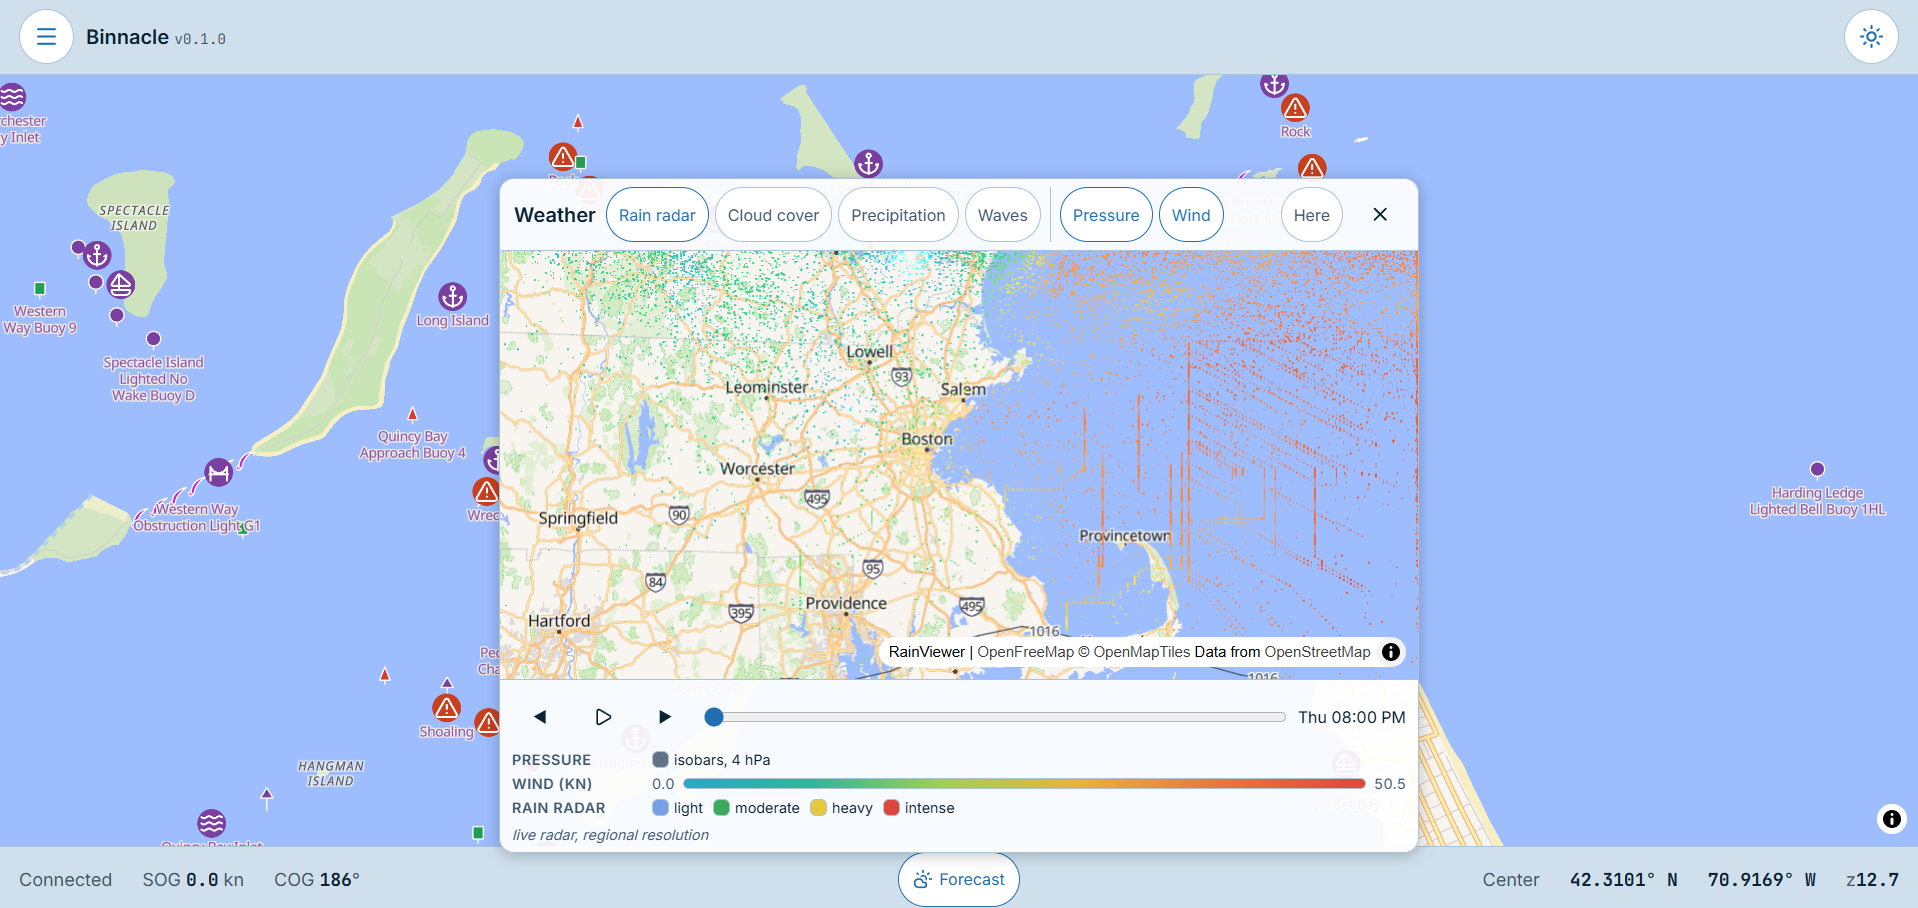
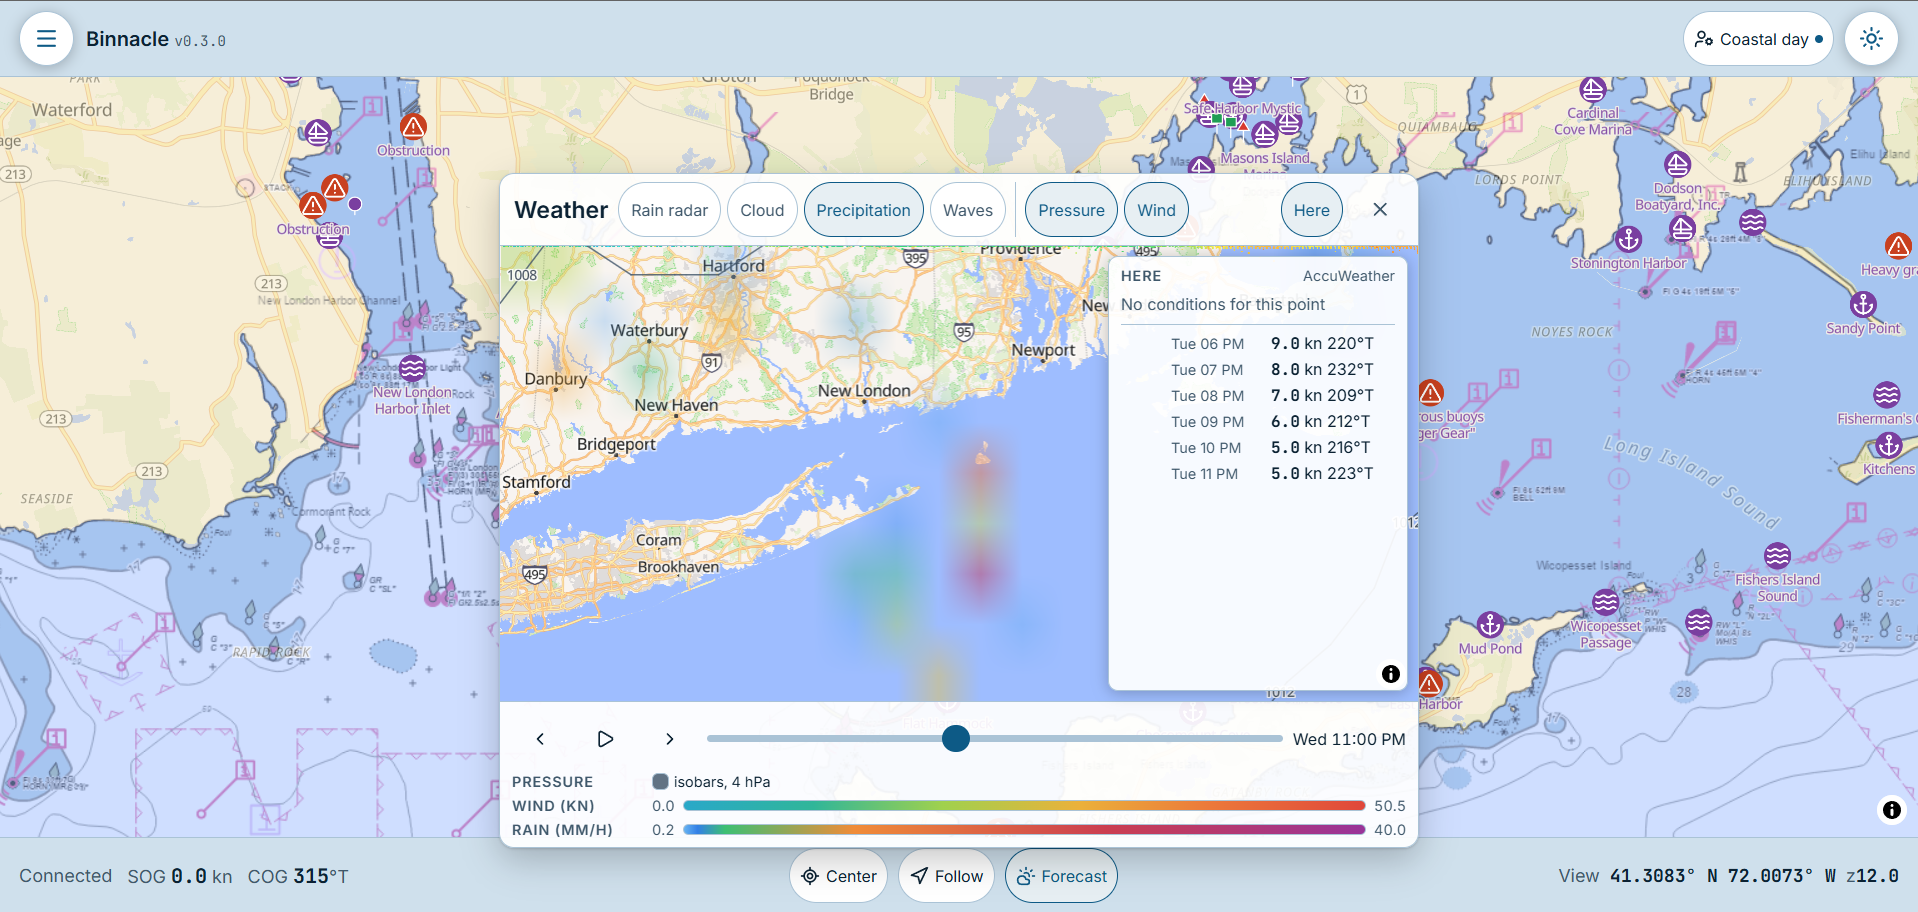
release: 0.3.0
Profiles, richer routing, and passage planning, plus the modularization and
cleanup work. Bump the version, date the CHANGELOG [0.3.0] entry, give the
README a labeled "What's new in 0.3.0" section near the top and expand the
Features list to cover the new user-facing capabilities (profiles, tap-to-
navigate, GPX import and export, passage planning, and track-to-route), and
refresh the five App Store screenshots.

Deps are current (npm outdated clean) and npm audit is clean for runtime
dependencies.

diff --git a/README.md b/README.md
@@ -8,18 +8,31 @@
 
 A WebGL chart plotter for [Signal K](https://signalk.org).
 
-> **0.2.1.** A reliability patch. Points of interest no longer flicker (a transient provider response
-> could blank the markers; they are now kept and cached by area), active marine warnings stay put
-> through a transient weather hiccup, an active route re-hydrates its guidance after a stream
-> reconnect instead of freezing on stale values, server charts no longer blank on a transient load
-> failure, and orphaned imported-chart storage is reclaimed. A hidden Points-of-interest layer now
-> does no background work, a base-map console-warning stream is silenced, and a whole-codebase
-> cleanup landed. See the [changelog](CHANGELOG.md) for the full list.
->
 > **It has not been field-tested at any scale.** It has been developed and verified against a single
 > Signal K server, never across a fleet or a range of real-world boats, hardware, and conditions. It
 > is also not certified for safety-of-life navigation. Always carry redundant means of navigation,
 > cross-check against your primary instruments, and treat every display as advisory.
+
+## What's new in 0.3.0
+
+Profiles, richer routing, and passage planning:
+
+- **Profiles.** Save named bundles of your settings (theme, which layers are on and their order, the
+  weather layers, the collision thresholds, and the track and planning settings), switch between them
+  in one tap, set a default, export and import them as files, and sync them across devices through a
+  secured server.
+- **Tap to navigate.** Long-press or right-click the chart and choose **Go to here** to navigate
+  straight to a point over the Course API.
+- **GPX import and export.** Move routes between Binnacle and other plotters and MFDs.
+- **Passage planning.** A plan speed turns the route's leg table into per-waypoint and whole-route
+  arrival times.
+- **Track-to-route.** Save the current track as a route, reverse a route for the return leg, navigate
+  home by retracing your track, and skip the active waypoint forward or back from the nav strip.
+- **Fixes.** Importing a malformed GPX no longer aborts the import, the Routes opacity slider now dims
+  the waypoint labels with the rest of the route, and the waypoint-skip buttons are a full touch
+  target.
+
+See the [changelog](CHANGELOG.md) for the full list.
 
 ## What it does
 
@@ -42,16 +55,24 @@ Binnacle ships its full feature set as a Signal K webapp:
   per-layer toggle, fade, and drag-reorder.
 - **Overlays:** free, key-free OpenSeaMap seamarks, marine protected areas, maritime boundaries, and
   NASA GIBS ocean conditions (sea-surface temperature and sea ice), each with its source attribution.
-- **Routing:** draw and save routes as Signal K resources and follow one with a nav strip
-  (cross-track, distance, bearing, velocity made good, and time to go) over the v2 Course API, with
-  an arrival alarm.
+- **Routing:** draw and save routes as Signal K resources, or tap **Go to here** (long-press or
+  right-click the chart) to navigate straight to a point. Follow a route with a nav strip (cross-track,
+  distance, bearing, velocity made good, and time to go) over the v2 Course API, with an arrival alarm
+  and skip-waypoint controls. A plan speed turns the route into a **passage plan** with per-waypoint and
+  whole-route arrival times, and routes **import and export as GPX** to move between Binnacle and other
+  plotters and MFDs.
+- **Profiles:** save named bundles of your settings (theme, which layers are on and their order, the
+  weather layers, the collision thresholds, and the track and planning settings), switch between them
+  in one tap, set a default, export and import them as files, and sync them across devices through the
+  server when you are logged in.
 - **Weather:** a zoom-capped mini-map with animated WebGL wind, pressure isobars, waves,
   precipitation, cloud, and radar, a tap-for-value readout, and a conditions and warnings panel.
 - **Tides:** the nearest NOAA tide station's next high and low with a 48-hour curve, and the nearest
   tidal-current station's next flood or ebb, for US waters.
 - **Lookout:** a collision watch with CPA and TCPA, chart-highlight rings, an audible alarm, and a
   published Signal K notification.
-- **Tracks:** record, save, show, and export your voyage track.
+- **Tracks:** record, save, show, and export your voyage track as GeoJSON, save a track as a reusable
+  route, reverse a route for the return leg, or navigate home by retracing your track.
 - **Points of interest:** Crow's Nest, ActiveCaptain, and other notes as themed markers with a
   structured detail panel.
 - **Themes and offline:** day, dusk, and night-red themes, offline caching, and self-hosted assets.

diff --git a/CHANGELOG.md b/CHANGELOG.md
@@ -4,7 +4,7 @@ All notable changes to Binnacle are documented here. The format follows
 [Keep a Changelog](https://keepachangelog.com/en/1.1.0/), and the project aims to follow
 [Semantic Versioning](https://semver.org/spec/v2.0.0.html).
 
-## [Unreleased]
+## [0.3.0] - 2026-06-09
 
 ### Added
 